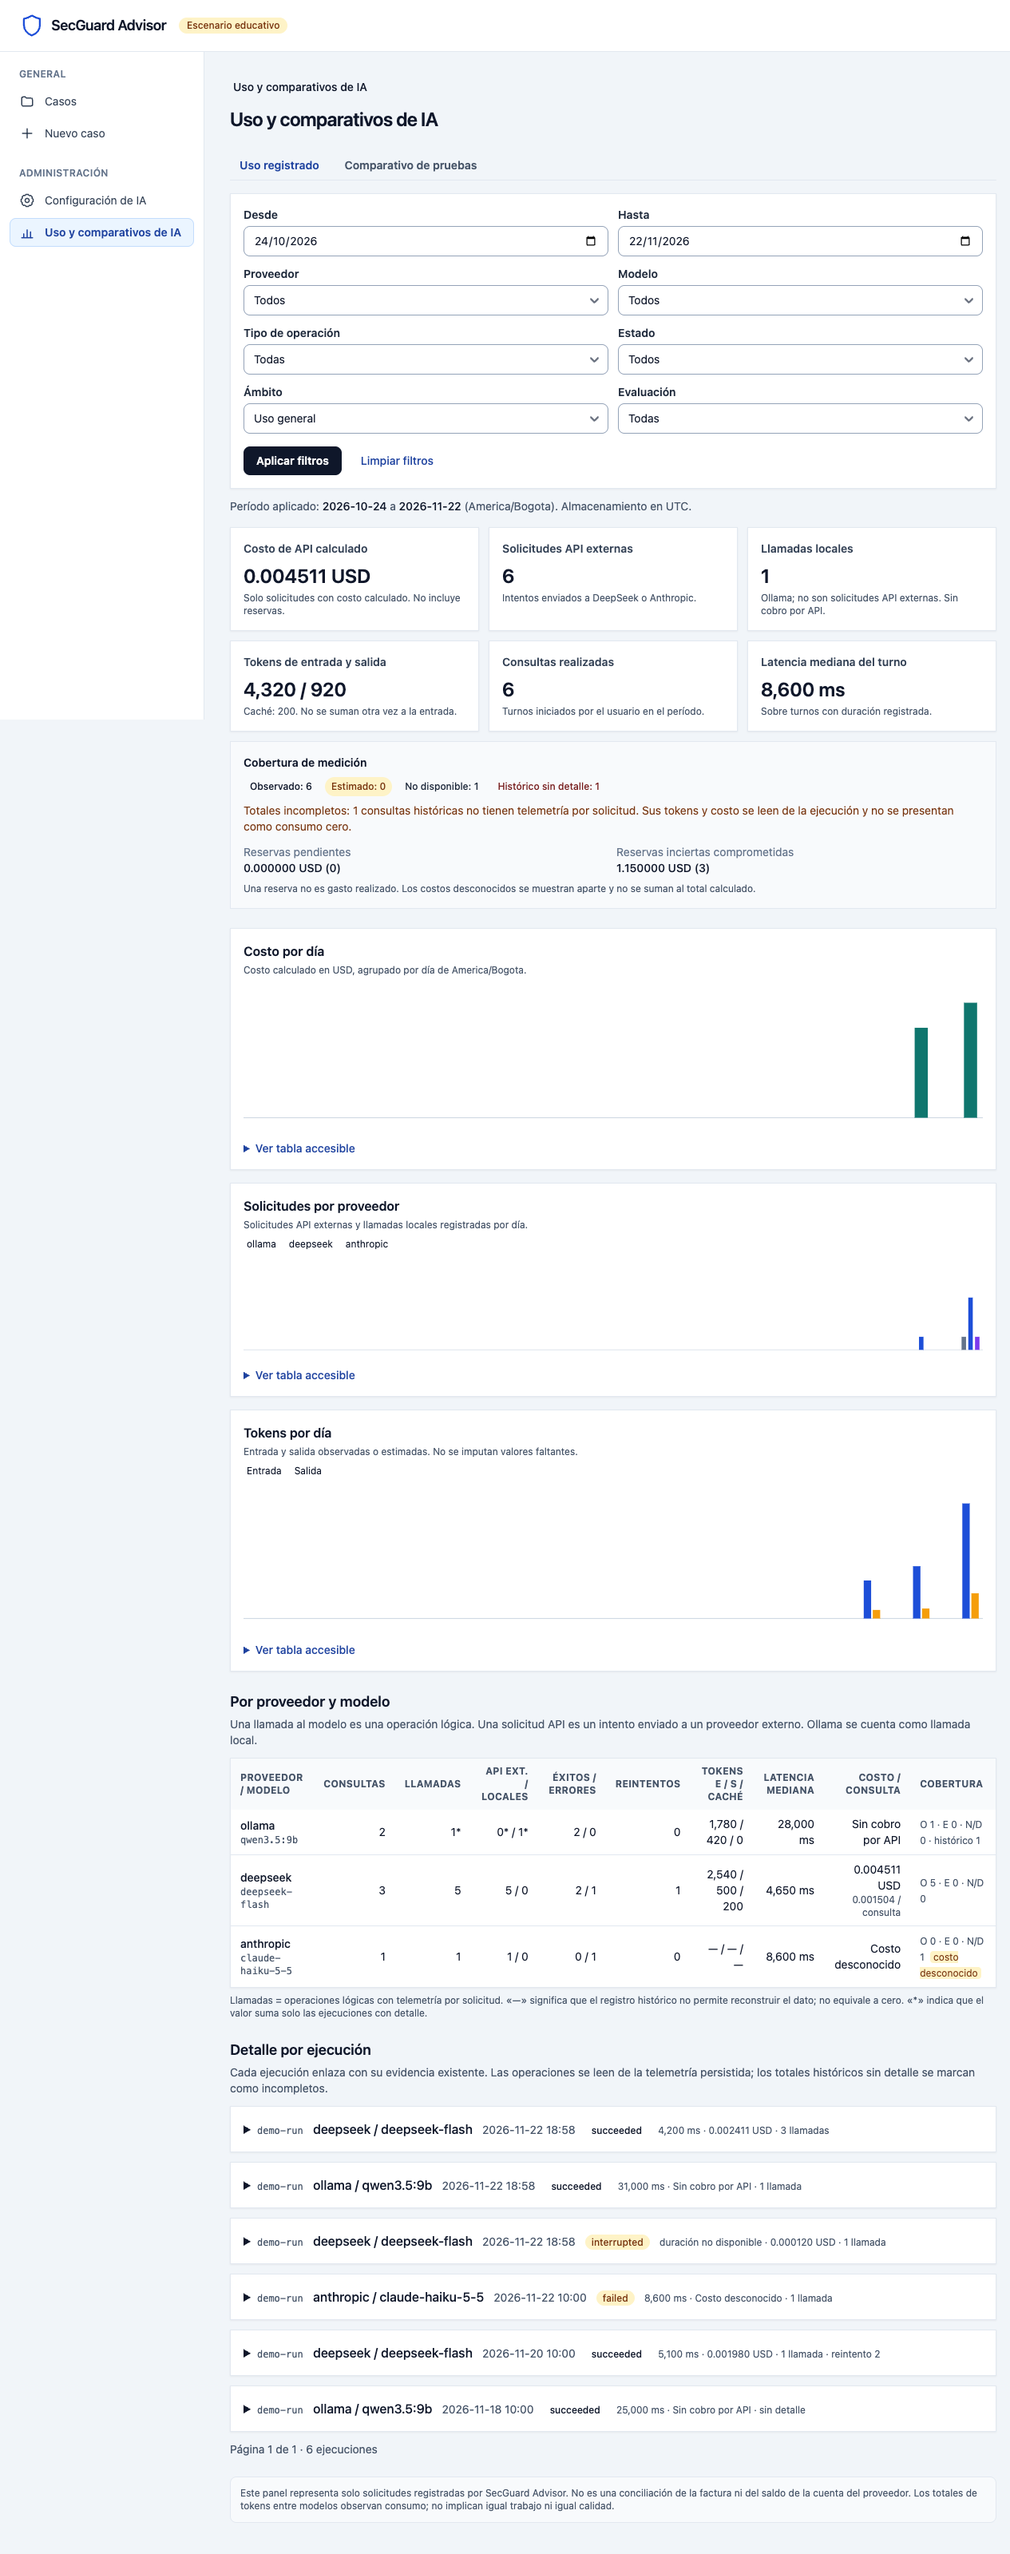
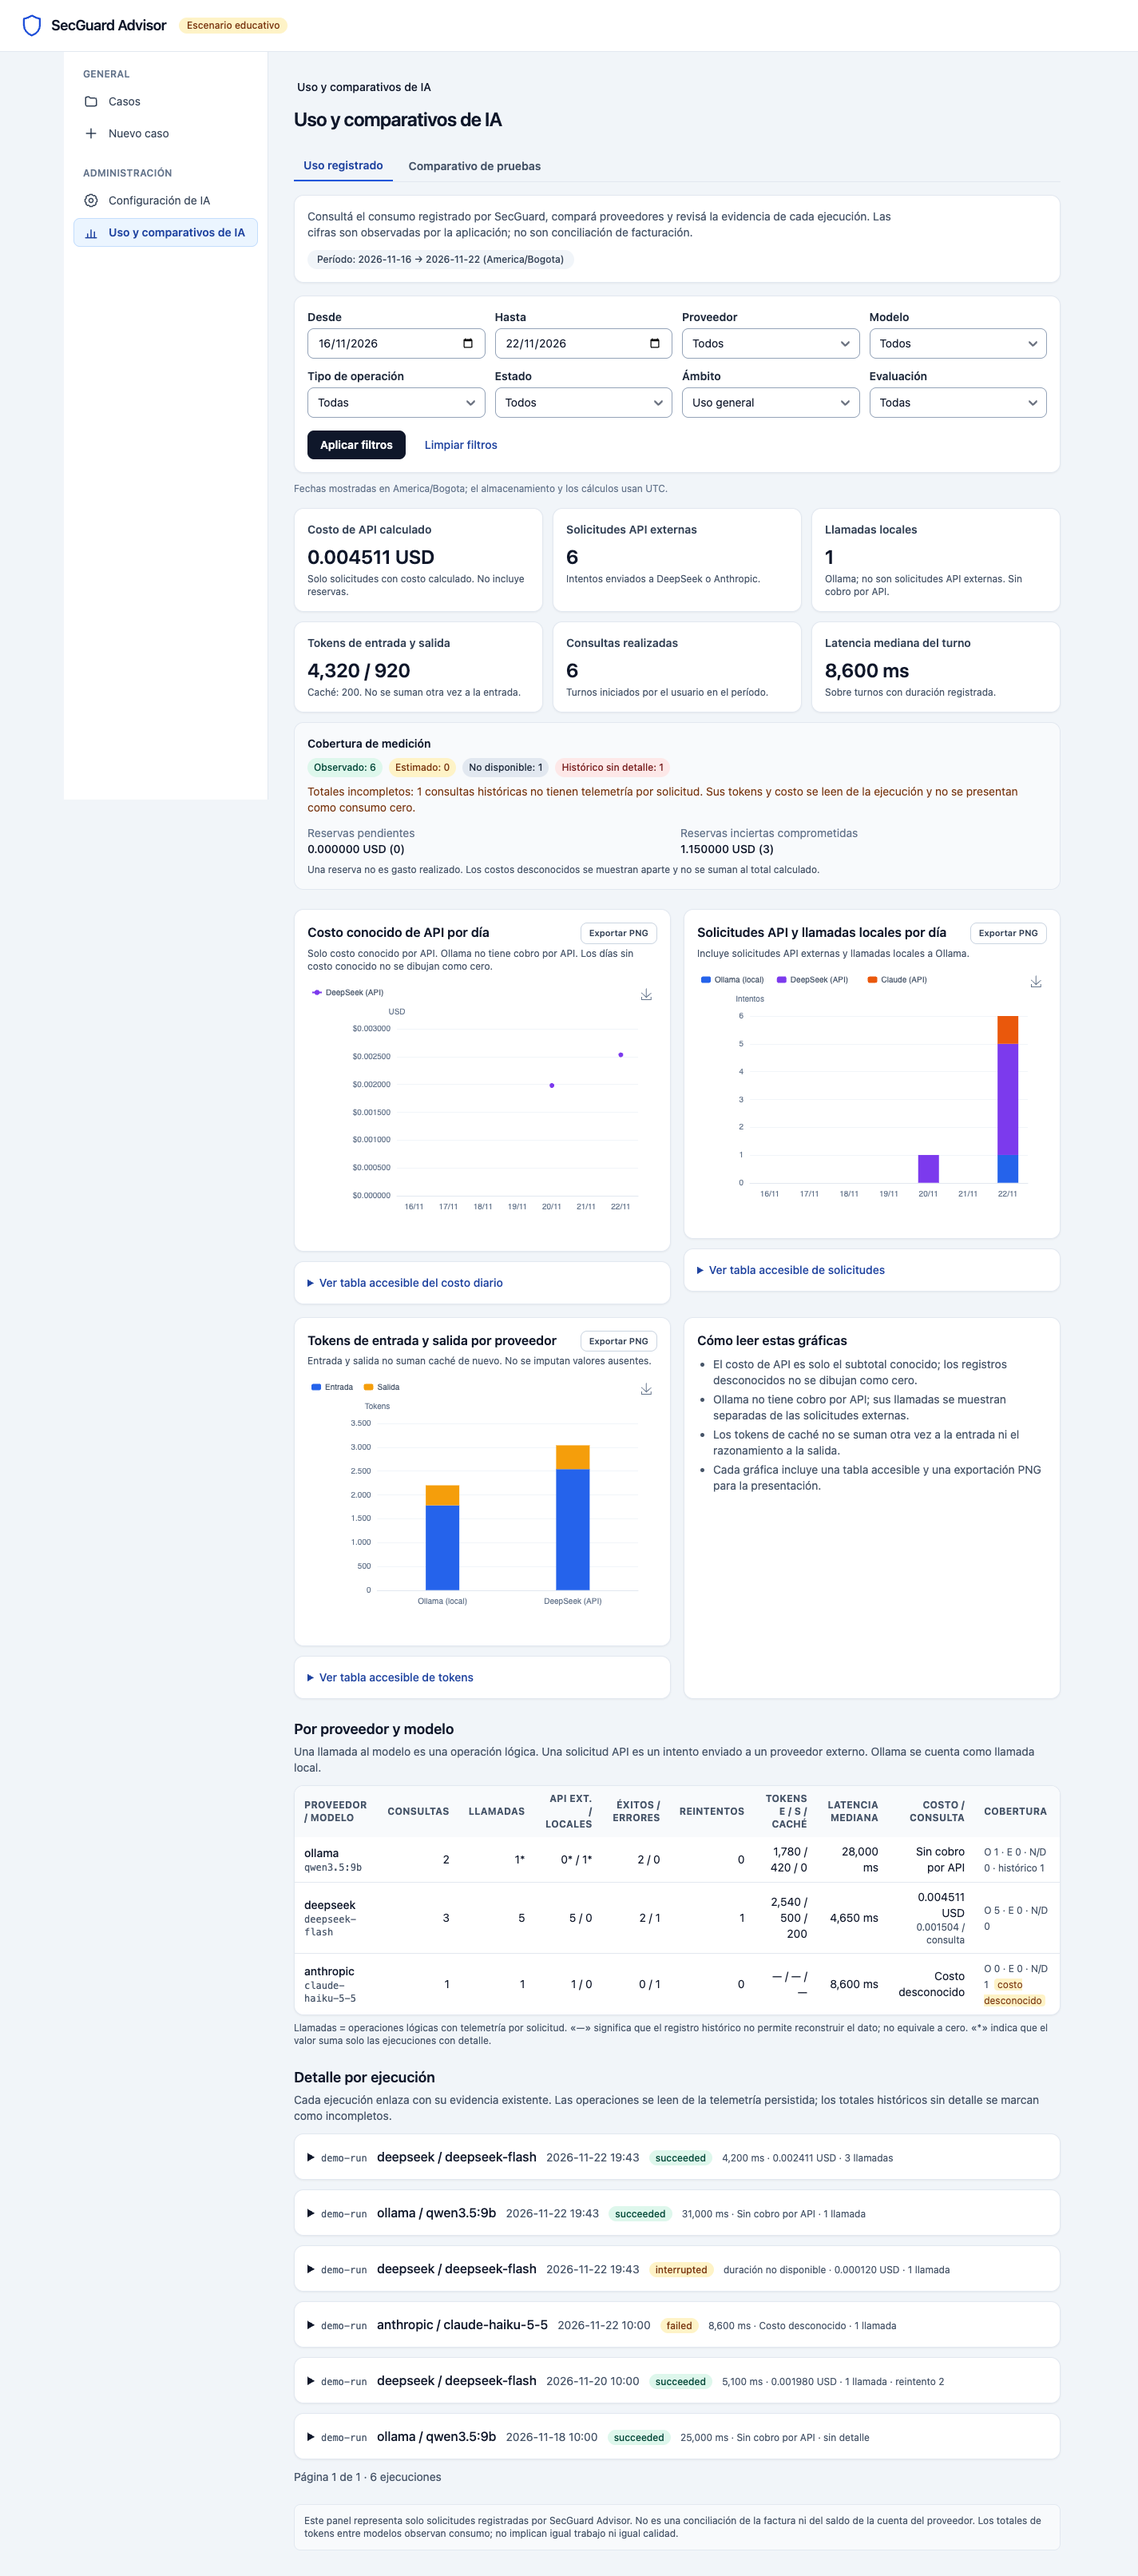
docs(005): documentar graficas ECharts y evidencia visual

diff --git a/docs/evidencia/005-panel-uso-ia/README.md b/docs/evidencia/005-panel-uso-ia/README.md
@@ -17,7 +17,11 @@
 - Pestaña **Comparativo de pruebas** con evaluación importada, escenarios comunes, muestra
   incompleta, métricas automáticas, calidad asistida por IA y revisión humana registrada.
 - Importación explícita e idempotente del informe de evaluación 005.
-- Gráficas SVG/HTML generadas por Jinja2, sin CDN ni dependencia nueva.
+- Gráficas interactivas con **Apache ECharts 5.6.0** (Apache-2.0), servido localmente desde
+  `static/js/echarts.min.js` y copiado por `npm run copy:vendor`.
+- El panel usa el build completo de ECharts porque el proyecto no tiene un bundler de módulos; se
+  documenta como decisión y se evita añadir una cadena de build nueva. Sin CDN, React ni servicios
+  externos.
 
 ## Definiciones y fórmulas
 
@@ -105,14 +109,32 @@ uv run python scripts/import_evaluation_005.py --storage-dir storage/demo
 uv run python scripts/seed_ai_usage_demo.py --storage /ruta/temporal/storage
 ```
 
+## Gráficas interactivas
+
+- **Consumo:** costo conocido de API por día (líneas por proveedor), solicitudes API externas y
+  llamadas locales (barras apiladas), tokens de entrada y salida por proveedor (barras apiladas).
+- **Comparativo:** latencia mediana en segundos, resultados aprobado/fallido/bloqueado, costo
+  conocido por escenario comparable con cobertura y matriz de escenarios con tooltip de resultado,
+  duración y modelo.
+- Paleta: Ollama azul, DeepSeek violeta, Claude naranja; aprobado verde, fallido rojo, bloqueado
+  ámbar.
+- Tooltips con unidad, valor y cobertura cuando aplica; leyendas seleccionables; exportación PNG por
+  gráfica; tabla accesible en cada tarjeta.
+- `usage-charts.js` inicializa tras `htmx:afterSettle`, libera instancias en `htmx:beforeSwap`,
+  evita listeners duplicados, usa un único `ResizeObserver` y respeta `prefers-reduced-motion`.
+- Los datos se serializan con `tojson` y los tooltips usan `renderMode: "richText"` para no insertar
+  HTML no confiable.
+- No hay gráfica de calidad por dimensión: la base actual solo registra un promedio y no se
+  fabrican dimensiones.
+
 ## Pruebas ejecutadas
 
-- `make check`: **714 passed**, 37 deselected.
+- `make check`: **717 passed**, 37 deselected.
 - Integraciones afectadas:
   `test_ollama_provider_regression`, `test_answer_real`, `test_tool_only_question`,
-  `test_midturn_failure`, `test_trace_and_fallback`: **8 passed** (53.66 s).
+  `test_midturn_failure`, `test_trace_and_fallback`: **8 passed** (52.26 s).
 - Nuevas pruebas: telemetría, agregados y comparativo, importación, migración, contrato de rutas,
-  adaptadores y regeneración del informe. Incluyen: uso tras JSON inválido, timeout sin reutilizar
+  adaptadores, regeneración del informe y coherencia de datos de gráficas (3). Incluyen: uso tras JSON inválido, timeout sin reutilizar
   uso previo, consumo de bloqueados y muestra común.
 - Sin llamadas pagadas para probar el panel.
 
@@ -128,6 +150,9 @@ Playwright:
 - Pestaña de comparativo con dos vistas: **consumo completo** (incluye bloqueados, costo conocido
   parcial y cobertura) y **comparativo funcional** sobre la muestra común de 9 escenarios. Se
   verifican etiquetas de costo parcial, denominadores e IDs de la muestra.
+- ECharts renderizado en escritorio 1440 px y móvil 390/320 px; tooltips, leyendas, filtros,
+  pestañas, exportación PNG, varios reemplazos HTMX consecutivos, sin desbordamiento del documento,
+  consola limpia y solo peticiones locales.
 - Estados sin datos y con histórico incompleto.
 - Escritorio 1280 px; móvil 390 px y 320 px sin desborde horizontal del documento.
 - Navegación por teclado: enlace de salto, navegación, pestañas, campos y botones reciben foco;
@@ -142,6 +167,8 @@ Capturas:
 - `panel-filtros.png`
 - `comparativo-pruebas.png`
 - `comparativo-movil-320.png`
+- `panel-filtros.png`
+- `grafico-costo-exportado.png`
 - `panel-movil-390.png`
 - `panel-movil-320.png`
 - `panel-sin-datos.png`

diff --git a/docs/planificacion/005-ultimo-resultado.md b/docs/planificacion/005-ultimo-resultado.md
@@ -215,7 +215,7 @@ cierra. La aceptación externa sigue pendiente y no se declara.
   `provider_budget_ledger`; registra operación, estado, duración, tokens, caché, razonamiento,
   fuente de uso, costo calculado, tarifa histórica y vínculo de evaluación. Sin claves, prompts ni
   respuestas.
-- Tarjetas, gráficas SVG con tabla accesible, tabla por proveedor/modelo, detalle paginado con enlace
+- Tarjetas, gráficas interactivas con tabla accesible, tabla por proveedor/modelo, detalle paginado con enlace
   a la ejecución y cobertura observada/estimada/no disponible. Reservas pendientes e inciertas se
   muestran aparte del gasto calculado.
 - Comparativo de pruebas con importación idempotente del informe 005
@@ -223,7 +223,7 @@ cierra. La aceptación externa sigue pendiente y no se declara.
   asistida por IA y revisión humana registrada.
 - Las ejecuciones sin telemetría se agregan desde `runs` y se marcan como histórico incompleto; los
   agregados importados no fabrican solicitudes.
-- Pruebas: `make check` con **714 passed**, 37 deselected; integraciones afectadas **8 passed**.
+- Pruebas: `make check` con **717 passed**, 37 deselected; integraciones afectadas **8 passed**.
   Evidencia y capturas en `docs/evidencia/005-panel-uso-ia/`.
 - Ver y filtrar no invoca modelos ni gasta. No se añadieron botones para lanzar evaluaciones.
 
@@ -248,3 +248,21 @@ cierra. La aceptación externa sigue pendiente y no se declara.
 **Pendiente, no resuelto por esta corrección**: T039 (marker `external` de pytest), tiempos
 excedidos de Ollama (S02 136 618 ms; S04 182 842 ms), errores de salida estructurada externa y el
 informe breve S10.
+
+## Gráficas interactivas del panel de uso (2026-11-23)
+
+- Apache ECharts **5.6.0** (Apache-2.0) instalado con npm, copiado a `static/js/echarts.min.js` por
+  `npm run copy:vendor` y registrado en `static/vendor/MANIFEST.md`. Sin CDN ni servicios externos.
+- Consumo: costo conocido diario por proveedor, solicitudes API externas y llamadas locales, y
+  tokens de entrada/salida por proveedor. Comparativo: latencia en segundos, resultados
+  aprobado/fallido/bloqueado, costo conocido por escenario con cobertura y matriz de escenarios.
+- Tooltips con unidad/cobertura, leyendas, exportación PNG, tablas accesibles y mensajes de datos
+  ausentes. `usage-charts.js` reinicializa tras HTMX, libera instancias y respeta
+  `prefers-reduced-motion`.
+- Se mantiene la separación entre consumo completo (incluye bloqueados) y comparativo funcional
+  sobre la muestra común de 9 escenarios; los totales conocidos siguen siendo parciales.
+- Pruebas: `make check` con **717 passed**, 37 deselected; integraciones afectadas **8 passed**.
+  Capturas y PNG exportado en `docs/evidencia/005-panel-uso-ia/`.
+
+**Pendiente sin cambios**: T039, tiempos excedidos de Ollama, errores de salida estructurada externa
+y el informe breve S10.

diff --git a/specs/005-generador-configurable/tasks.md b/specs/005-generador-configurable/tasks.md
@@ -11,7 +11,7 @@ un resultado esperado claro.
 **Estado**: T001–T038, T040–T042 y T043–T049 completadas. T039 tiene la comparación externa real
 ejecutada y registrada, pero permanece pendiente el marker `external` de pytest. 005 mantiene
 aceptación local parcial; no se declara aceptación de proveedores externos. El panel «Uso y
-comparativos de IA» está implementado (T050–T056).
+comparativos de IA» está implementado (T050–T057).
 
 ## Formato
 
@@ -477,6 +477,14 @@ regresión completa verde; documentación final y decisión de aceptación basad
   - Evidence: `tests/unit/test_ai_usage_import.py`, `tests/unit/test_report_evaluation_005.py`,
     `tests/contract/test_deepseek_adapter.py`, `tests/contract/test_anthropic_adapter.py`,
     `docs/evidencia/005-panel-uso-ia/README.md`.
+
+- [x] T057 [Uso] Integrar Apache ECharts local, gráficas interactivas, exportación PNG y
+  accesibilidad del panel.
+  - Story: Uso
+  - Check: ECharts 5.6.0 Apache-2.0 local, sin CDN; gráficas de consumo/comparativo con tooltips,
+    leyendas, tablas accesibles y exportación; HTMX sin instancias duplicadas.
+  - Evidence: `package.json`, `package-lock.json`, `scripts/copy-vendor.mjs`,
+    `tests/unit/test_ai_usage_charts.py`, `docs/evidencia/005-panel-uso-ia/`.
 
 ## Dependencias y orden
 

diff --git a/docs/planificacion/handoff-005.md b/docs/planificacion/handoff-005.md
@@ -64,10 +64,12 @@ aceptación local, sin aceptación de proveedores externos.
   `ai_evaluations`/`ai_evaluation_results`; migración aditiva `a3c4d5e6f7a8`.
 - Importación idempotente: `make import-evaluation` (no crea solicitudes desde agregados).
 - Evidencia, fórmulas y capturas: `docs/evidencia/005-panel-uso-ia/`.
-- `make check`: 714 passed; integraciones afectadas: 8 passed.
+- `make check`: 717 passed; integraciones afectadas: 8 passed.
 - Corrección de exactitud (2026-11-23): consumo completo incluye bloqueados; costo conocido
   DeepSeek 0,006201 USD y Anthropic 0,006150 USD, con 2 y 3 registros desconocidos. El comparativo
   funcional usa la muestra común de 9 escenarios (Ollama 5/9, DeepSeek 6/9, Anthropic 4/9).
+- Gráficas interactivas con Apache ECharts 5.6.0 (Apache-2.0) servido localmente; exportación PNG,
+  tooltips y tablas accesibles. Evidencia en `docs/evidencia/005-panel-uso-ia/`.
 - Pendiente sin cambios: T039, timeouts de Ollama, salida estructurada externa y S10.
 
 ## 3. T039 — Comparación externa real

diff --git a/odd/tasks/panel-uso-ia.md b/odd/tasks/panel-uso-ia.md
@@ -104,3 +104,7 @@ aplicación, con telemetría por solicitud, agregados, filtros, comparativo de e
   0,006201 USD (incluye S08) y Anthropic 0,006150 USD (incluye S08), con 2 y 3 registros
   desconocidos. Los adaptadores capturan uso antes de validar y reinician `last_usage`; la salida
   inválida conserva tokens/costo cuando hay evidencia. Informes regenerados y Playwright verificado.
+- **L5 (gráficas ECharts, 2026-11-23)**: Apache ECharts 5.6.0 (Apache-2.0) instalado con npm y
+  servido localmente. Gráficas de consumo y comparativo con tooltips, leyendas, exportación PNG,
+  tablas accesibles, reinicialización HTMX y `ResizeObserver`. `make check` 717 passed; Playwright
+  validó 1440/390/320 px, filtros, pestañas, varios swaps y ausencia de llamadas externas.

diff --git a/AGENTS.md b/AGENTS.md
@@ -82,7 +82,8 @@ el mismo commit.
 ## Stack
 
 - Python 3.14.6, `uv`, src-layout, `uv_build`.
-- FastAPI, Jinja2, HTMX, Tailwind CSS y Flowbite (gratuito), recursos locales.
+- FastAPI, Jinja2, HTMX, Tailwind CSS, Flowbite (gratuito) y Apache ECharts 5.6.0
+  (Apache-2.0), recursos locales.
 - LangChain, LangGraph, SQLite y LangSmith. Ollama y Qdrant son la implementación actual; Qdrant es
   el único backend documental (004, implementado y aceptado localmente en el Corte 6). Chroma quedó
   retirado del código. Los adaptadores API de 005 existen, pero no tienen aceptación externa real y

diff --git a/README.md b/README.md
@@ -181,6 +181,7 @@ La constitución completa las decisiones de arquitectura, seguridad y calidad:
 - Python 3.14.6 y `uv`.
 - FastAPI, Jinja2 y HTMX.
 - Tailwind CSS y Flowbite (gratuito), servidos localmente.
+- Apache ECharts 5.6.0 (Apache-2.0), servido localmente para el panel de uso de IA.
 - LangChain y LangGraph.
 - Ollama para inferencia local (actual); DeepSeek y Anthropic configurables, evaluados con llamadas
   reales en 005 sin declararse aceptados.
